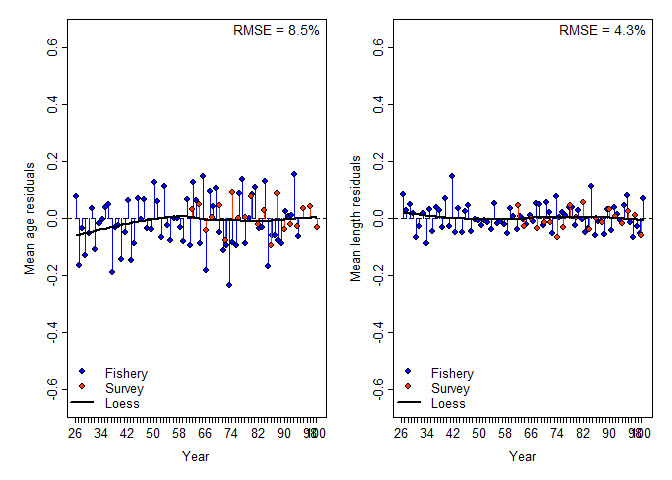
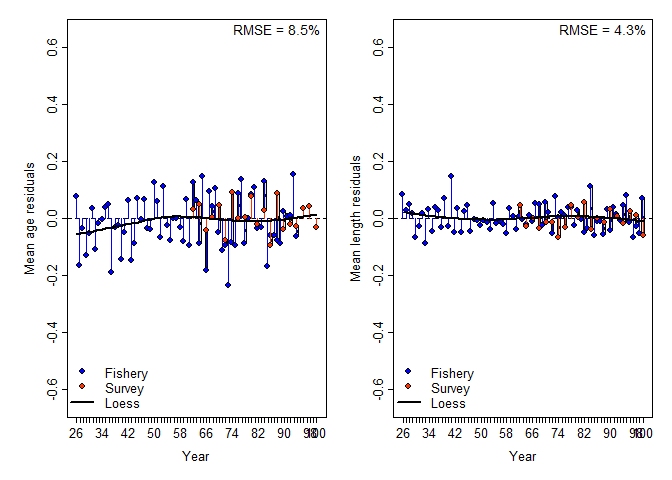
"Comb" seasonal boxplots for SSplotsJABBAres

diff --git a/README.md b/README.md
@@ -133,13 +133,13 @@ the example below, we plot the residuals for the mean age
 
 ``` r
 sspar(mfrow=c(1,2),plot.cex=0.8)
-SSplotJABBAres(simple, subplots = "age", add = TRUE)
+SSplotJABBAres(simple, subplots = "age", add = TRUE, seas="comb")
 #> RMSE stats by Index:
 #>    indices RMSE.perc nobs
 #> 1  Fishery       9.3   69
 #> 2   Survey       5.1   20
 #> 3 Combined       8.5   89
-SSplotJABBAres(simple, subplots = "len", add = TRUE)
+SSplotJABBAres(simple, subplots = "len", add = TRUE, seas="comb")
 #> RMSE stats by Index:
 #>    indices RMSE.perc nobs
 #> 1  Fishery       4.5   75
